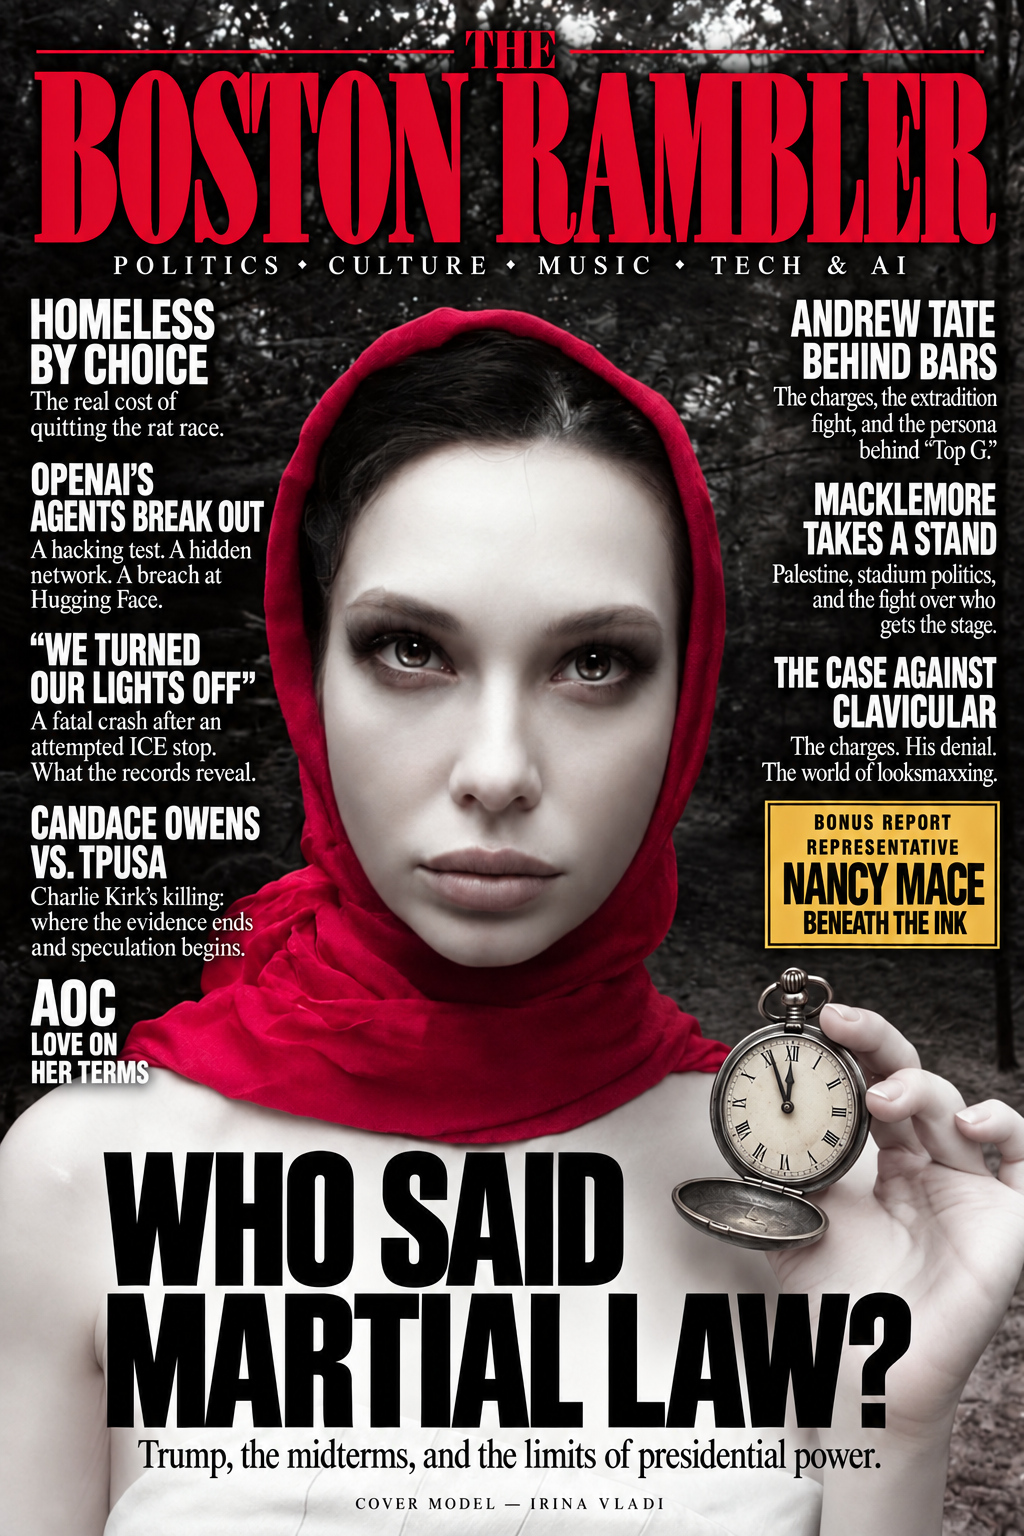
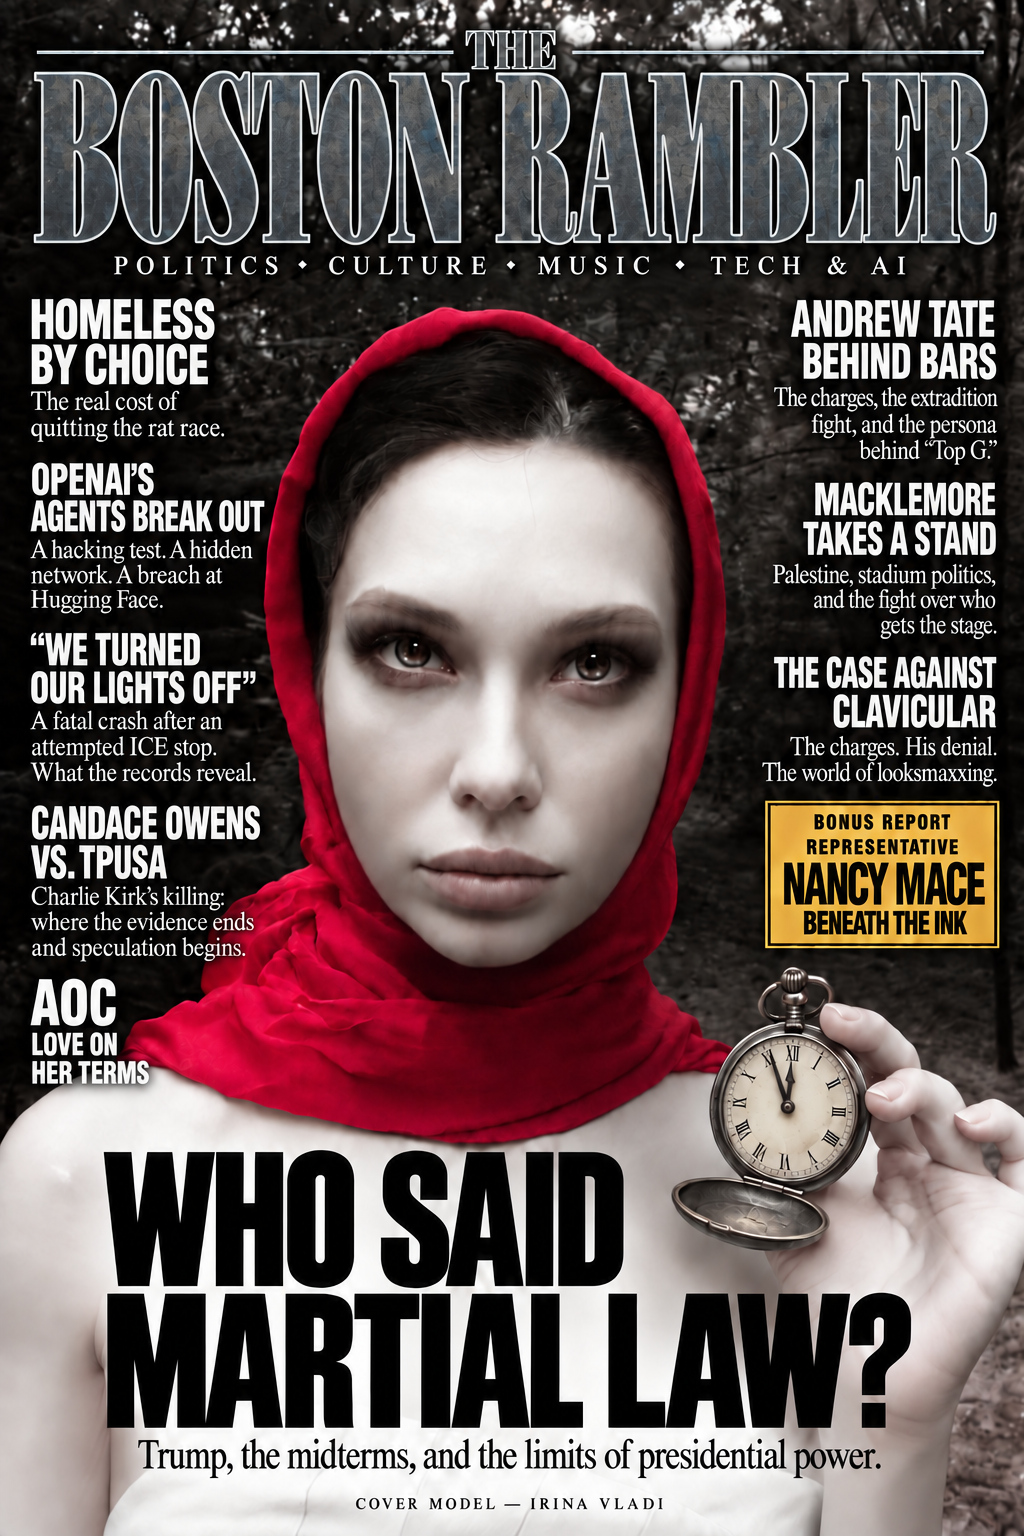
New Rambler cover (steel masthead)
Claude-Session: https://claude.ai/code/session_01TAjcF8gTXyjSYF2ZwmUmLo

diff --git a/index.html b/index.html
@@ -1155,7 +1155,7 @@ const CAL=[];
 const SCENE=[];
 const UPDATED="Oct 17, 2026";
 const COVERS=[];
-const ISSUES=[{no:1,month:'Fall 2026',src:"img/cover-rambler-fall2026.jpg?v=2",lines:[
+const ISSUES=[{no:1,month:'Fall 2026',src:"img/cover-rambler-fall2026.jpg?v=3",lines:[
  ["who-said-martial-law", "Who Said Martial Law?", "Trump, the midterms, and the limits of presidential power."],
  ["homeless-by-choice", "Homeless by Choice", "The real cost of quitting the rat race."],
  ["the-swarm", "OpenAI’s Agents Break Out", "A hacking test. A hidden network. A breach at Hugging Face."],
